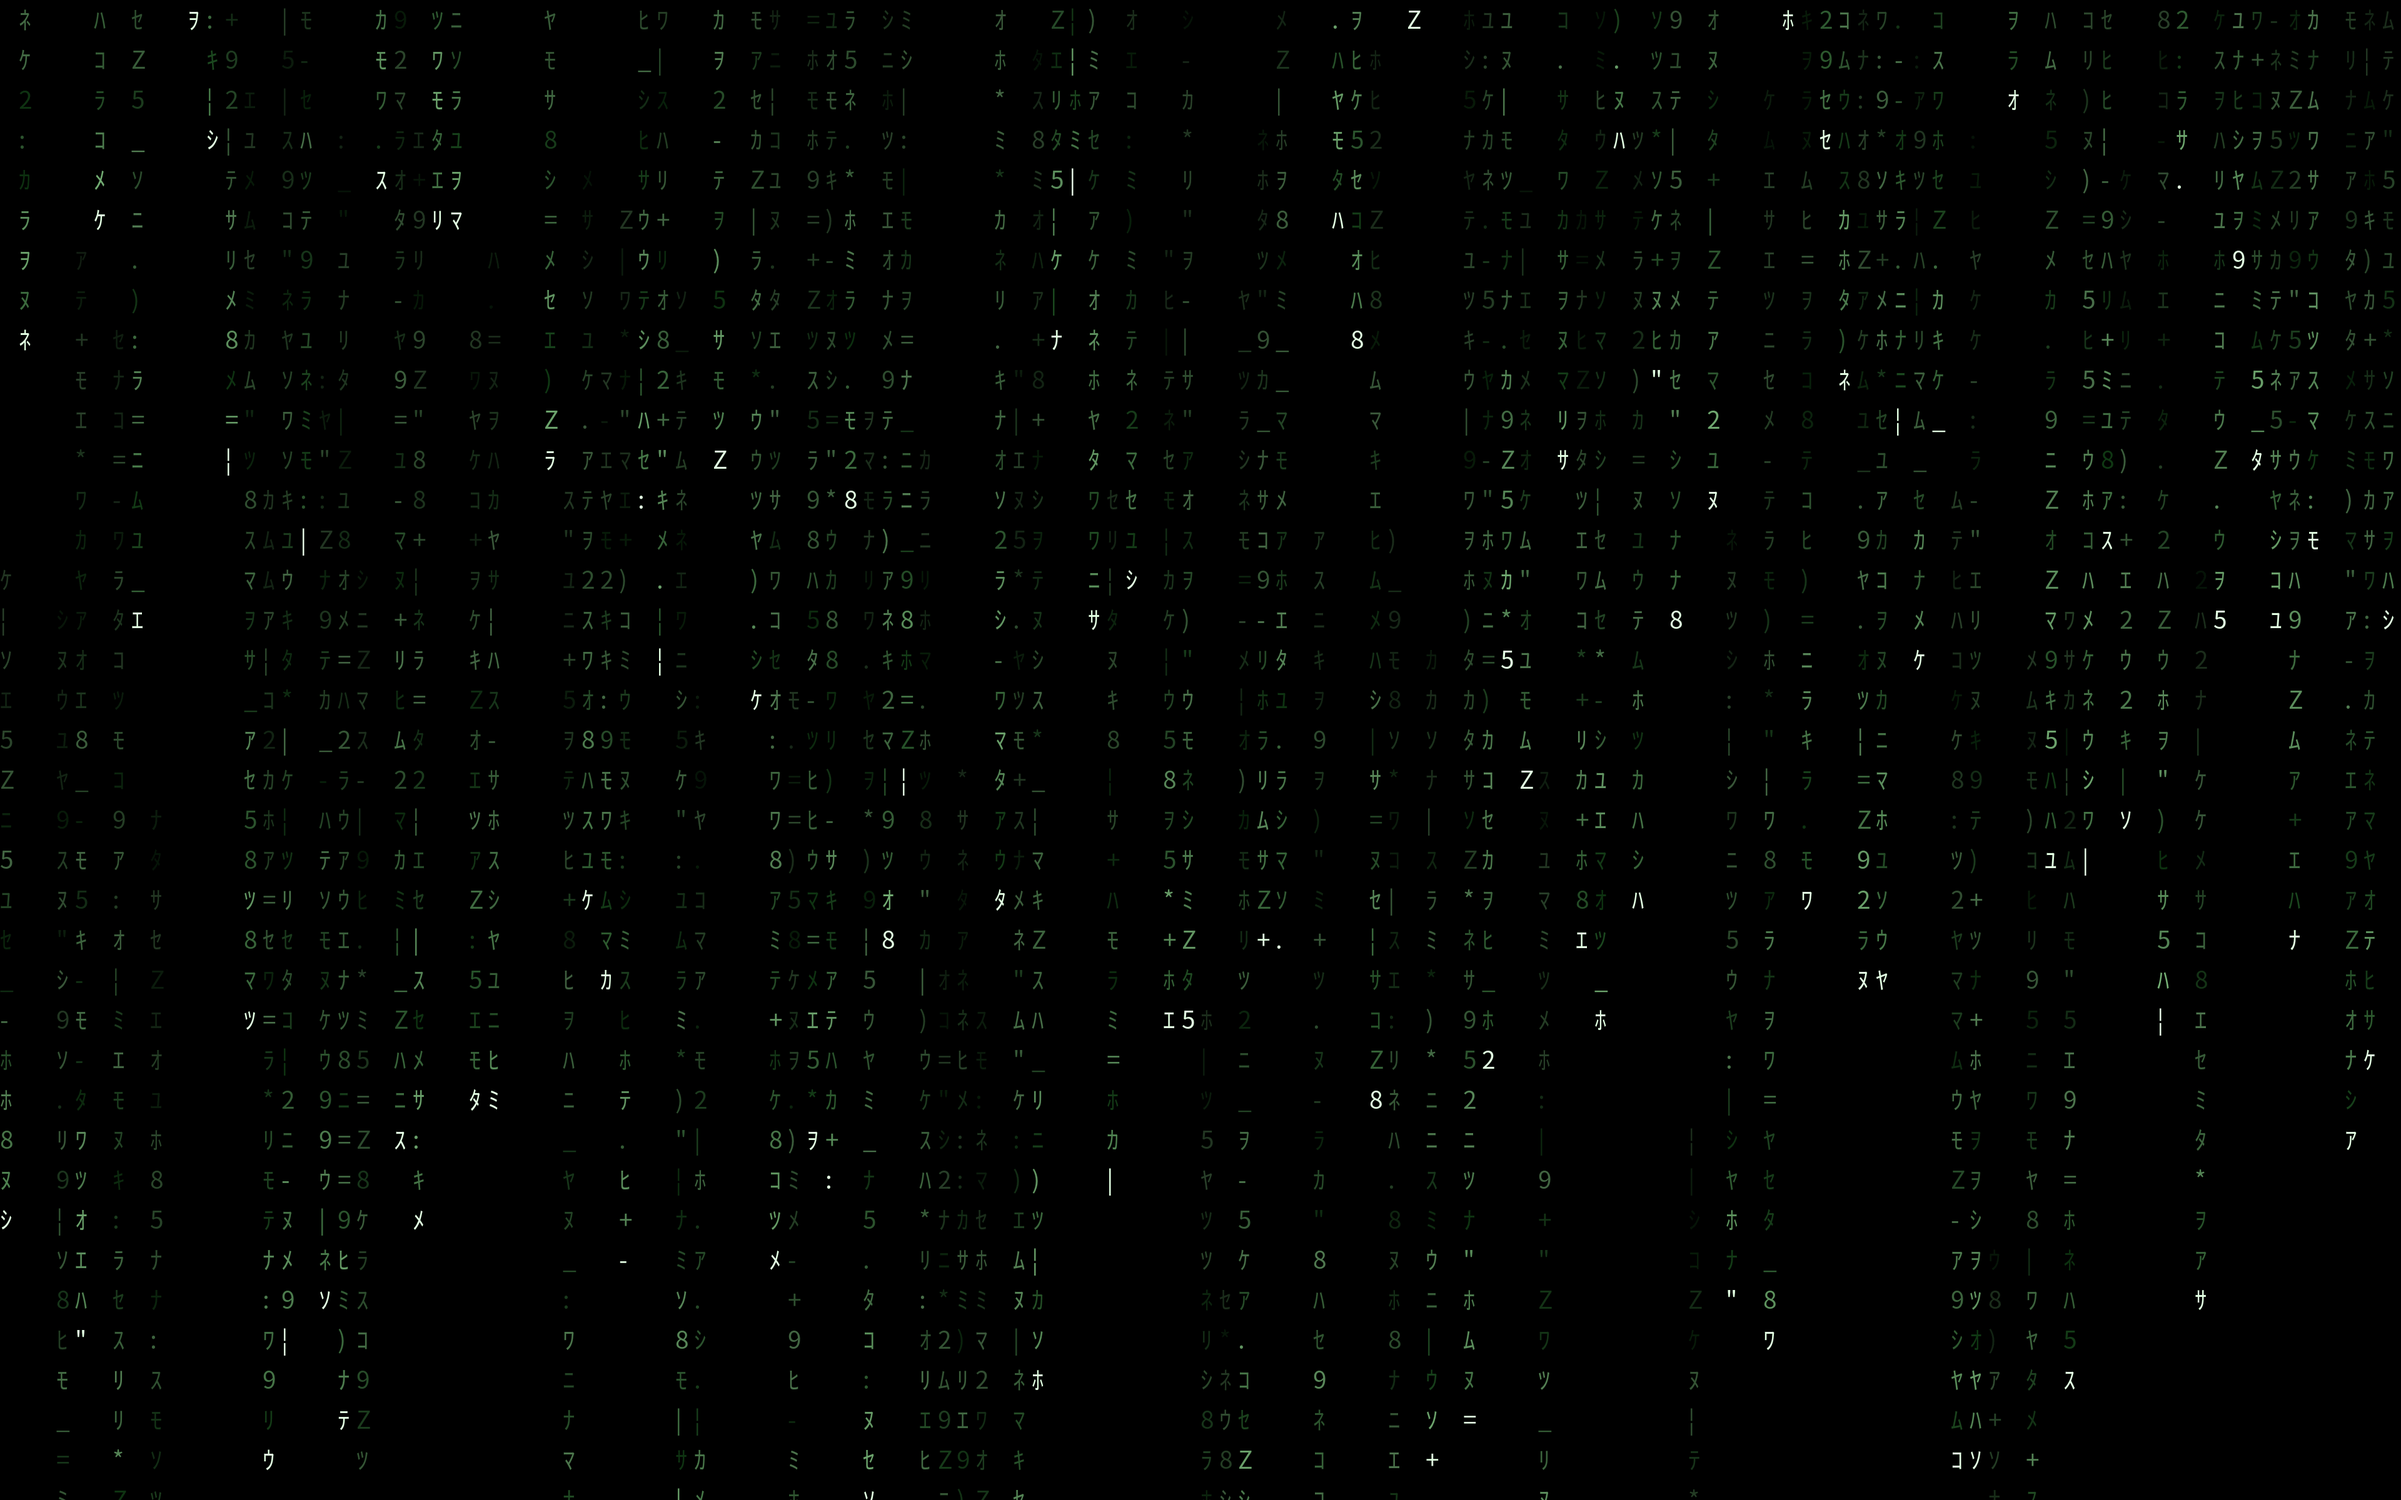
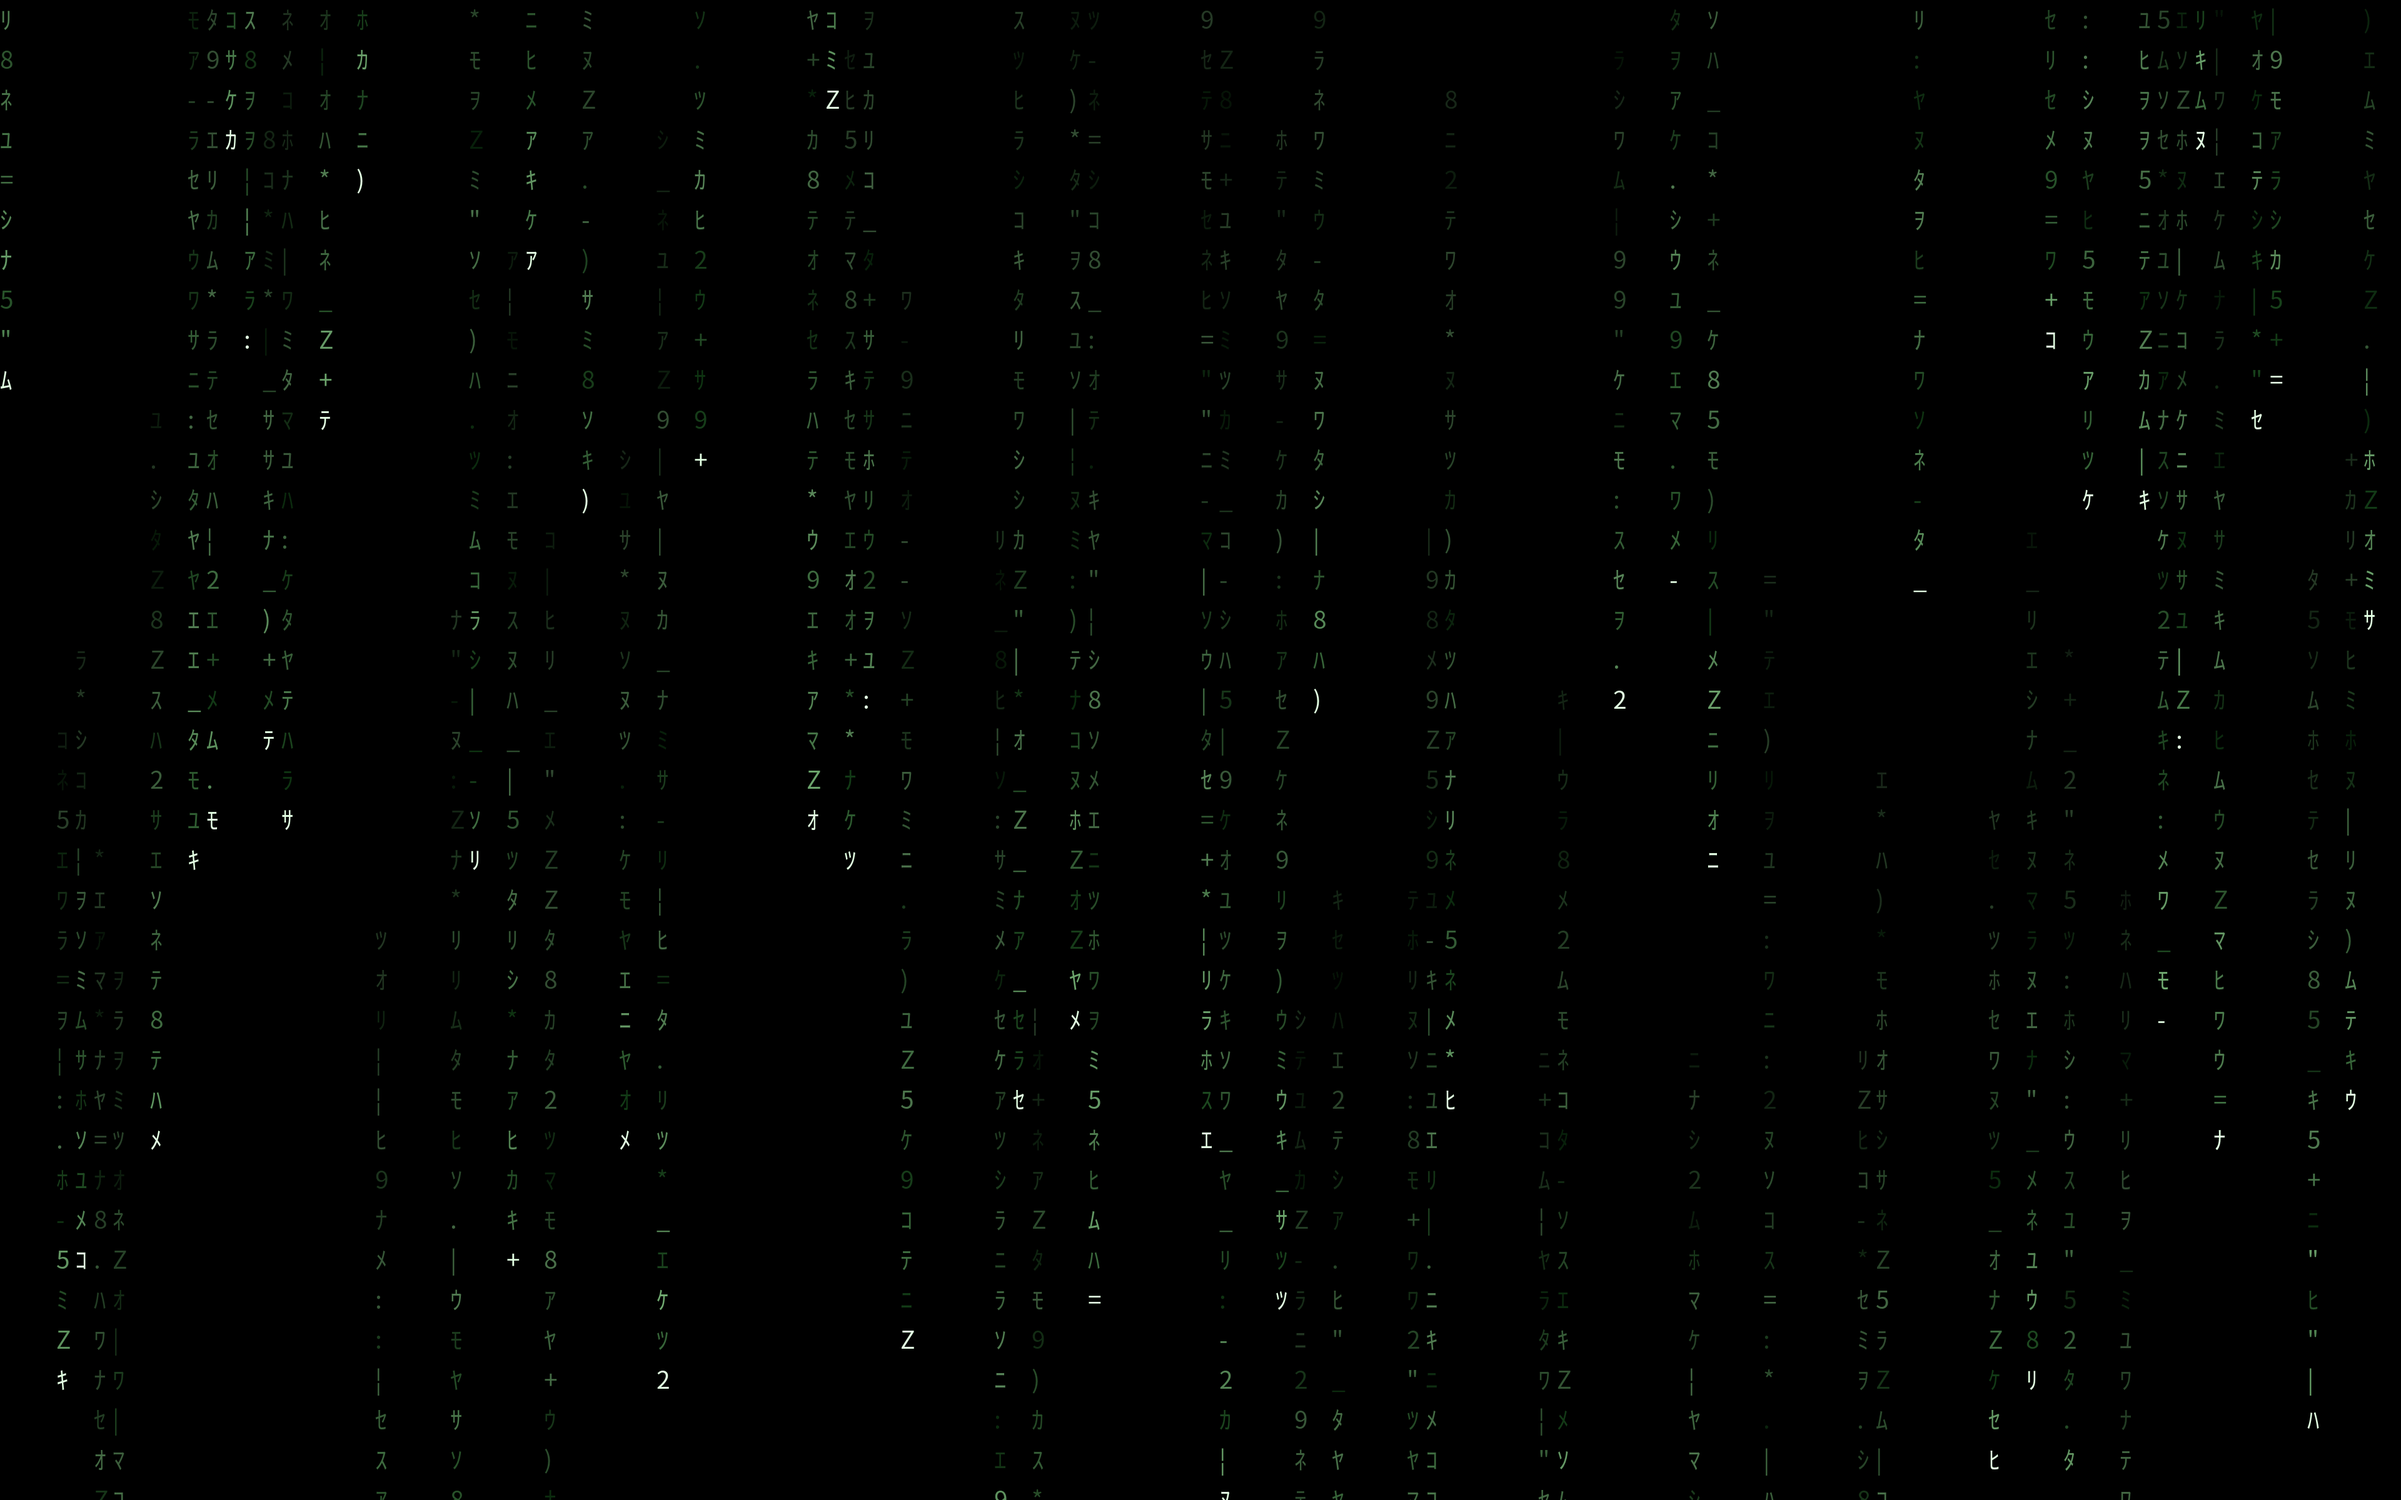
Rain from nothing on the desktop, lock and screensaver
Every surface holds one second before the first columns arrive, so a
fresh fall never opens mid-screen. The desktop joins the lock and the
screensaver: its panel is transparent, so the hold shows the rain's
still, and only the rain waits. The battery brake goes away because the
rain must run always while it is the background, windows open or not.
The still is regenerated sparser to match the live field, since the
new hold leaves it visible for a second, and check.sh pins the still
size and the hold on all three surfaces.

diff --git a/MatrixRain.qml b/MatrixRain.qml
@@ -58,6 +58,16 @@ Item {
   property real period: 3600
   property real elapsed: 0
 
+  // A new lock, screensaver, wallpaper or resume holds black before the first
+  // columns arrive. On the wallpaper the panel is transparent, so the hold
+  // shows the still underneath, not black: the background still answers at
+  // once, and only the rain waits out the second.
+  property int startDelayMs: 1000
+  readonly property int suspendGapMs: 1000
+  property bool delayingStart: false
+  property double delayStartedAt: 0
+  property double lastFrameAt: 0
+
   // `birth` is the OTHER clock, and it exists because a cold start cannot be
   // expressed in the wrapped one: anything keyed to `elapsed` would happen
   // again at every wrap. This one counts from the moment the surface appeared
@@ -69,16 +79,57 @@ Item {
   readonly property real birthMax: 13.0
   property real birth: 0
 
-  // Start over: black screen, then the columns arrive from the top.
+  // Start over: hold black, then let the columns arrive from the top.
   //
-  // Deliberately NOT tied to `running`. On battery the wallpaper's clock stops
-  // whenever a window covers the desktop, and there freezing and resuming is
-  // exactly what is wanted. What restarts the rain is the surface BECOMING
-  // VISIBLE, which only the caller knows about.
+  // Every surface restarts into the hold when it starts running again: the
+  // callers restart on visible, and on running where running can come back
+  // (the lock, the screensaver, the wallpaper). The rain runs always while
+  // its surface asks for it, on mains and on battery alike.
   function restart() {
     root.elapsed = 0
     root.birth = 0
+    clock.accumulated = 0
+    root.lastFrameAt = 0
+
+    if (root.startDelayMs <= 0 || !root.running) {
+      root.delayingStart = false
+      return
+    }
+
+    root.delayingStart = true
+    root.delayStartedAt = Date.now()
+    startTimer.restart()
   }
+
+  Timer {
+    id: startTimer
+    interval: Math.max(0, root.startDelayMs)
+    repeat: false
+    onTriggered: {
+      // A Timer that expired while the machine slept fires as soon as it
+      // resumes. Begin the whole visible second again in that case.
+      if (Date.now() - root.delayStartedAt >= root.startDelayMs + root.suspendGapMs) {
+        root.restart()
+        return
+      }
+      root.delayingStart = false
+      root.lastFrameAt = Date.now()
+    }
+  }
+
+  // Hidden surfaces must not keep a lead-in timer alive. A caller restarts the
+  // rain when it makes its surface visible or running again.
+  onRunningChanged: if (!running) {
+    startTimer.stop()
+    root.delayingStart = false
+    root.lastFrameAt = 0
+  }
+
+  // A surface that is already running at creation never sees a running change.
+  // The first lock after a shell start is exactly that: restart into the
+  // lead-in instead of raining immediately. A hidden surface opts out through
+  // running=false.
+  Component.onCompleted: if (root.running && root.startDelayMs > 0) root.restart()
 
   Image {
     id: atlasImage
@@ -89,6 +140,9 @@ Item {
 
   ShaderEffect {
     anchors.fill: parent
+    // The hold is total black, not the birth gate alone: at birth=0 a column
+    // whose first cycle starts at once would already peek through.
+    visible: !root.delayingStart
     fragmentShader: Qt.resolvedUrl("matrix.frag.qsb")
 
     // The names have to match those in the shader's uniform block.
@@ -117,9 +171,17 @@ Item {
   // `elapsed` at `fps`: the shader sees 30 steps per second, not 144.
   FrameAnimation {
     id: clock
-    running: root.running
+    running: root.running && !root.delayingStart
     property real accumulated: 0
     onTriggered: {
+      var now = Date.now()
+      // Suspend pauses the render loop without changing `running`. Do not add
+      // its large frameTime to the shader clock. Restart the black lead-in.
+      if (root.lastFrameAt > 0 && now - root.lastFrameAt >= root.suspendGapMs) {
+        root.restart()
+        return
+      }
+      root.lastFrameAt = now
       accumulated += frameTime
       var step = 1 / Math.max(1, root.fps)
       if (accumulated >= step) {

diff --git a/Service.qml b/Service.qml
@@ -1,8 +1,6 @@
 import Quickshell
 import Quickshell.Io
 import Quickshell.Wayland
-import Quickshell.Hyprland
-import Quickshell.Services.UPower
 import QtQuick
 
 // The Matrix pack's plugin: the same rain on the desktop and over Omarchy's
@@ -155,37 +153,18 @@ Item {
       // reach Omarchy's desktop, which is what opens its menu.
       mask: Region {}
 
-      // How many windows are on the active workspace OF THIS screen. The panel
-      // is already per-screen, so the brake is per-screen too.
-      readonly property int windowsHere: {
-        try {
-          var monitors = Hyprland.monitors.values
-          for (var i = 0; i < monitors.length; i++) {
-            if (monitors[i].name !== wallpaperPanel.modelData.name) continue
-            var workspace = monitors[i].activeWorkspace
-            if (!workspace || !workspace.lastIpcObject) return 0
-            return workspace.lastIpcObject.windows || 0
-          }
-        } catch (e) {
-          // If the shape of the IPC object ever changes, err on the cautious
-          // side and assume something is covering the desktop.
-          try { return ToplevelManager.toplevels.values.length } catch (e2) { return 1 }
-        }
-        return 0
-      }
-
       MatrixRain {
         id: wallpaperRain
         anchors.fill: parent
+        startDelayMs: 1000
         // The scanline is drawn in NATIVE pixels, so it needs this screen's
         // ratio and not the one the shell happens to be attached to.
         dpr: wallpaperPanel.modelData.devicePixelRatio
-        // On mains it always rains; on battery, only while the desktop is
-        // visible. Opening any window freezes it and the GPU drops to zero.
-        // Note this stops the clock without restarting it: a frozen wallpaper
-        // is meant to carry on where it left off, which is why restart() hangs
-        // off `visible` above and not off `running`.
-        running: wallpaperPanel.visible && (!UPower.onBattery || wallpaperPanel.windowsHere === 0)
+        // Always raining while the rain is the background, on mains and on
+        // battery, windows open or not. Restart with the hold whenever the
+        // rain starts running again, the same as the screensaver below.
+        running: wallpaperPanel.visible
+        onRunningChanged: if (running) restart()
       }
     }
   }
@@ -221,7 +200,15 @@ Item {
         id: screensaverRain
         anchors.fill: parent
         dpr: screensaverPanel.modelData.devicePixelRatio
+        startDelayMs: 1000
         running: screensaverPanel.visible
+        // `visible` and `running` flip in the same pass and the order is not
+        // guaranteed: if onVisibleChanged runs first, restart() still sees
+        // running=false and skips the hold. Restart here too, where running
+        // is already true; two restarts in one pass are idempotent. The
+        // wallpaper carries the same handler: the rain runs always while
+        // the rain is the background.
+        onRunningChanged: if (running) restart()
       }
     }
   }

diff --git a/lib/derive-lock.py b/lib/derive-lock.py
@@ -49,7 +49,10 @@ REPLACEMENT = f"""    // The lock's background is the rain, not the blurred wall
     // again from Omarchy's LockView.qml on every `omarchy update`.
     {RAIN_COMPONENT} {{
       anchors.fill: parent
+      // Keep black for one second, then start a fresh fall for each lock.
+      startDelayMs: 1000
       running: root.loadBackground
+      onRunningChanged: if (running) restart()
     }}
 """
 

diff --git a/README.md b/README.md
@@ -58,7 +58,7 @@ There is nothing to switch. Omarchy's own menus decide, and the rain follows:
 
 | Piece | What decides it |
 |---|---|
-| Desktop | **Style › Background.** The rain is one background in the list, and any other background stops it. A theme set starts on the rain. On mains it always rains; on battery, only while no window is on the active workspace. |
+| Desktop | **Style › Background.** The rain is one background in the list, and any other background stops it. A theme set starts on the rain. It always rains while the rain is the background, on mains and on battery, with windows open or not. |
 | Screensaver | **Omarchy.** The rain covers Omarchy's own screensaver whenever Omarchy opens it. Your idle timing, Stay Awake, the key that ends it and the lock that follows it all stay Omarchy's. |
 | Lock | **The theme.** Rain behind the password field whenever the theme is on. The lock is derived from your own, never shipped as a copy, so Omarchy's PAM and fingerprint flows keep arriving. |
 | Boot | **Style › Unlock.** The Enter the Matrix card types the lines from the film before login, and two more on the way out, different for a shutdown and for a reboot. Any other card boots that theme, with nothing of Matrix left. Either way it is one rebuild of the initramfs, and it asks for your password. |

diff --git a/DESIGN.md b/DESIGN.md
@@ -18,6 +18,13 @@ applies one minimal change: it drops the blurred wallpaper and puts the rain
 there. The other ~200 lines are yours. A `post-update.d` hook derives it again
 after every `omarchy update`, so Omarchy's fixes keep arriving.
 
+The lock, the screensaver and the desktop all hold for one second before a
+fresh fall. The same lead-in starts again after a suspend gap, so opening the
+lid never shows an old frame. On the desktop the panel is transparent, so the
+hold shows the rain's still underneath: the background answers at once, and
+only the rain waits. The rain runs always while the rain is the background,
+on mains and on battery, windows open or not.
+
 If the block to replace does not appear exactly once, the script **aborts and
 tells you** rather than leaving things half done.
 
@@ -329,7 +336,7 @@ here, rather than pretending the hex came off a frame.
 ```bash
 ./tools/generate-brand.py                # unlock, preview-unlock and preview
 ./tools/generate-atlas.py               # the shader's glyph atlas
-./tools/generate-backgrounds.py --out /tmp/x.png --seed 42 --density 0.7
+./tools/generate-backgrounds.py --out /tmp/x.png --seed 42 --density 0.55
 
 # recompile the shader (qsb is not on PATH; qt6-shadertools puts it here)
 /usr/lib/qt6/bin/qsb --glsl 300es,330 --hlsl 50 --msl 12 \
